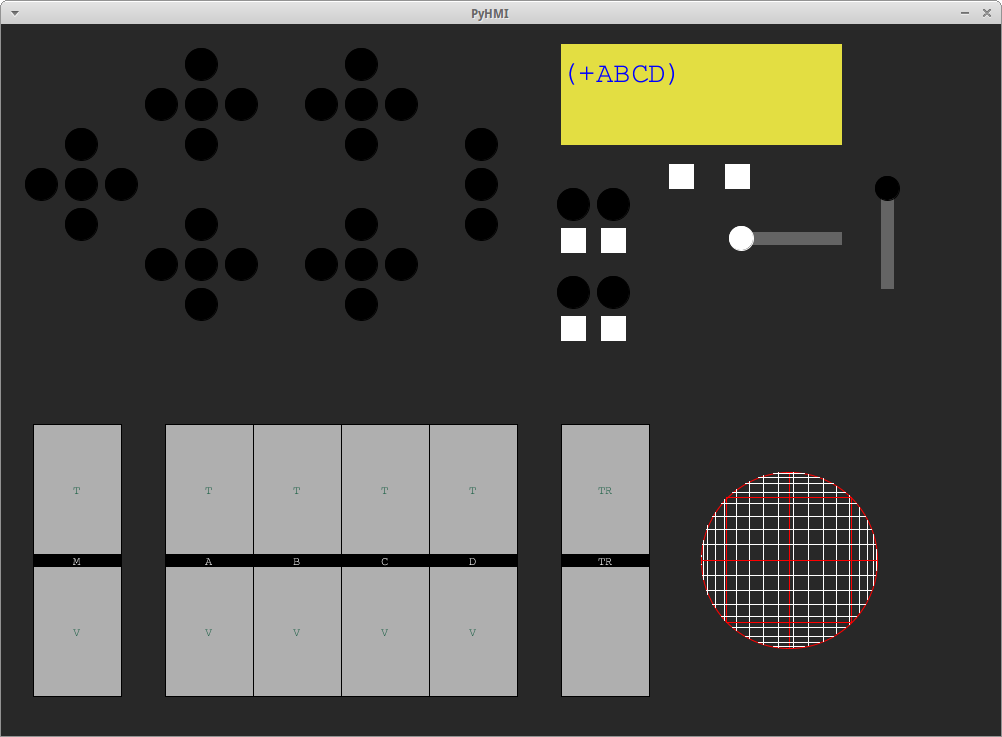
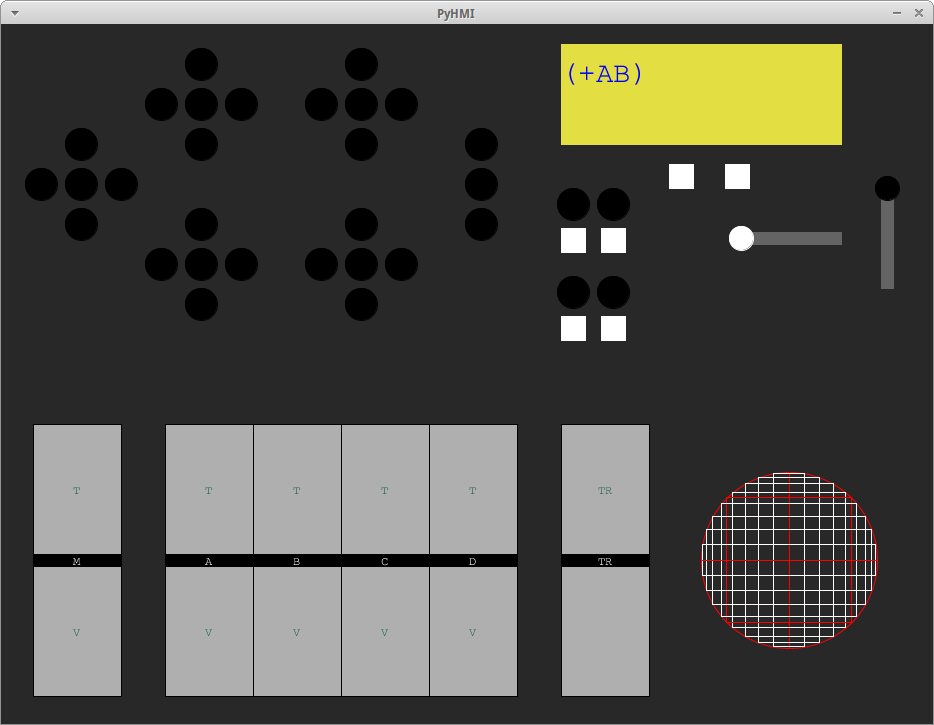
update to canvas dimensions

diff --git a/Ardu2/design/POC-3_MAX395/pyboard/DraftDevt/ProcessingPythonMode/PyHMI/layout.py b/Ardu2/design/POC-3_MAX395/pyboard/DraftDevt/ProcessingPythonMode/PyHMI/layout.py
@@ -1,7 +1,7 @@
 class layout:
     #sceen dimensions
-    widthReal =  250  # millimeters 
-    heightReal = 178
+    widthReal =  233  # millimeters 
+    heightReal = 175
     
     # screen background
     bg = 40
